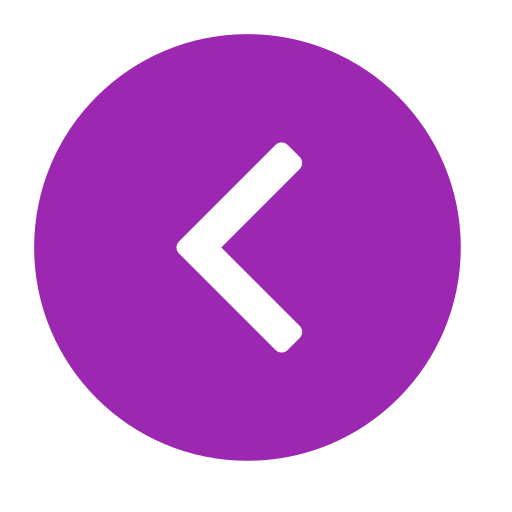
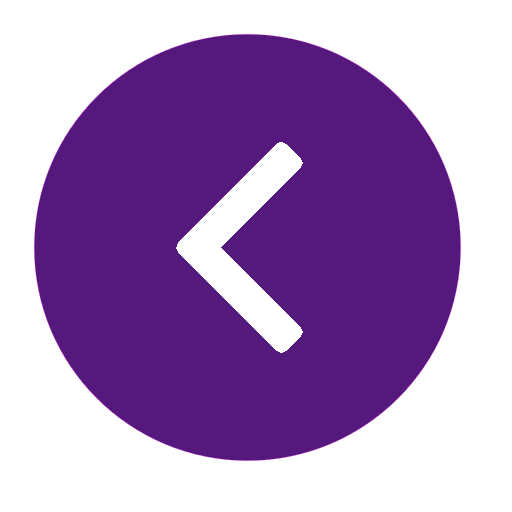
uhhh ze vsetko ui tak zatial iba pozadie a main
- main neni hotove este

diff --git a/src/App.tsx b/src/App.tsx
@@ -1,14 +1,8 @@
-import { useState, useEffect, memo, useRef } from 'react'
+import { useState, useEffect, useRef } from 'react'
 import './App.css'
 import './index.css'
-import LiquidChrome from './components/LiquidChrome';
-import SpotlightCard from './components/SpotlightCard';
 import ImageList from "./images.json"
 import ReCAPTCHA from "react-google-recaptcha";
-
-
-const CHROME_COLOR: [number, number, number] = [0.05, 0, 0.1];
-const MemoizedLiquidChrome = memo(LiquidChrome);
 
 interface LicenseData {
   status: string;
@@ -218,22 +212,22 @@ function App() {
 
   // REMOVED the extra { } around the ternary
   return license === true ? (
-    <div className='grid no-blur custom-spotlight-card col-span-2 md:col-span-1'> 
+    <div className='bg-[rgb(29,25,23)] p-[4%] grid no-blur  col-span-2 md:col-span-1'> 
       <h1 className='text-2xl lg:text-[45px] md:text-[35px] pb-2 '>Price</h1>
       <span className='text-xl md:text-2xl'>Thanks for purchasing our product! For downloading head to 'download' section above.</span>
     </div>
   ) : (
-    <div className='grid no-blur custom-spotlight-card col-span-2 md:col-span-1'>
+    <div className='bg-[rgb(29,25,23)] p-[4%] grid no-blur  col-span-2 md:col-span-1'>
       <h1 className='text-2xl lg:text-[45px] md:text-[35px] pb-2 '>Price</h1>
       <p className=''>
         Enjoy our LAUNCH sale, now for only 
         <span className='lg:text-[35px] md:text-[25px] text-2xl font-bold'> 6.99&nbsp;</span>
         <span className='lg:text-[30px] md:text-[22px] text-xl font-bold line-through'>14.99$</span> 
         for a lifetime license.* </p>
-      <button onClick={() => navigate('/buy')} className='text-black bg-purple-600 rounded-xl mt-4 mr-[20%] p-3 text-3xl '>
+      <button onClick={() => navigate('/buy')} className='text-black bg-[rgb(126,112,112)] rounded-xl mt-[4%] mr-[20%] p-3 text-3xl '>
         BUY NOW
       </button>
-      <img className='absolute place-self-end md:h-[40%] h-[50%]' src="zlava.png" alt="discount" />
+      <img className='absolute place-self-end md:h-[13%] h-[13%] mb-[-3%]' src="zlava.png" alt="discount" />
     </div>
   );
 }
@@ -262,28 +256,28 @@ function App() {
     <>
       <div className="all w-screen h-full">
         {/* --- HEADER --- */}
-        <div className='text-purple-600 font-bold h-min text-lg lg:text-[35px] md:text-[25px] p-[2vw] grid grid-cols-3 grid-rows-1 justify-center items-center'>
+        <div className='text-[rgb(126,112,112)] font-bold h-min text-lg lg:text-[35px] md:text-[25px] p-[2vw] grid grid-cols-3 grid-rows-1 justify-center items-center'>
 
           {/* RIGHT: Clock */}
-          <div id='hodiny' className='h-full pt-[1vw] text-start content-center flex md:p-[1vw] md:px-[3vw] p-3 order-3 justify-self-end h-full bg-black/40 drop-blur-[6px] border border-white/20 shadow-xl rounded-xl w-minback'>
+          <div id='hodiny' className='h-full pt-[1vw] text-start content-center flex md:p-[1vw] md:px-[3vw] p-3 order-3 justify-self-end h-full bg-[rgb(29,25,23)] border border-white/20 shadow-xl rounded-xl w-minback'>
             <Clock />
           </div>
 
           {/* LEFT: Login/Logout */}
           <div className="h-full order-1 justify-self-start">
             {isLoggedIn ? (
-              <h2 onClick={handleLogout} className="transition hover:text-purple-300 duration-300 md:p-[1vw] pt-[0.vw] md:px-[4vw] cursor-pointer content-center h-full w-min bg-black/40 backdrop-blur-[6px] border border-white/20 shadow-xl rounded-xl p-3">
+              <h2 onClick={handleLogout} className="transition hover:text-purple-300 duration-300 md:p-[1vw] pt-[0.vw] md:px-[4vw] cursor-pointer content-center h-full w-min bg-[rgb(29,25,23)] border border-white/20 shadow-xl rounded-xl p-3">
                 Logout
               </h2>
             ) : (
-              <h2 onClick={handleOpenLogin} className="transition  hover:text-purple-300 duration-300 md:p-[1vw] md:px-[4vw] cursor-pointer content-center h-full w-min bg-black/40 backdrop-blur-[6px] border border-white/20 shadow-xl rounded-xl p-3">
+              <h2 onClick={handleOpenLogin} className="transition  hover:text-purple-300 duration-300 md:p-[1vw] md:px-[4vw] cursor-pointer content-center h-full w-min bg-[rgb(29,25,23)] border border-white/20 shadow-xl rounded-xl p-3">
                 Login
               </h2>
             )}
           </div>
 
           {/* MIDDLE: Welcome Message + Nav Links (Optional) */}
-          <div className="h-full md:p-[0.5vw] md:px-[5vw] p-2 order-2  justify-self-center flex items-center bg-black/40 backdrop-blur-[6px] border border-white/20 shadow-xl rounded-xl">
+          <div className="h-full md:p-[0.5vw] md:px-[5vw] p-2 order-2  justify-self-center flex items-center bg-[rgb(29,25,23)] border border-white/20 shadow-xl rounded-xl">
             <div className='md:flex md:gap-4'>
               <h2 className='content-center '>
                 Welcome:</h2>
@@ -292,12 +286,7 @@ function App() {
           </div>
 
           {/* BACKGROUND */}
-          <div className='fixed -z-10 inset-0 transform-gpufixed top-0 left-0 w-full h-full -z-10 transform-gpu' style={{ width: '100vw', height: '100vh', position: 'fixed' }}>
-            <MemoizedLiquidChrome
-              baseColor={CHROME_COLOR}
-              speed={0.2}
-              amplitude={0.3}
-              interactive={false} />
+          <div className='bg-stone-900 fixed -z-10 inset-0 transform-gpufixed top-0 left-0 w-full h-full -z-10 transform-gpu' style={{ width: '100vw', height: '100vh', position: 'fixed' }}>
           </div>
         </div>
 
@@ -307,7 +296,7 @@ function App() {
         {currentPath === '/download' ? (
           // === DOWNLOAD PAGE ===
           <div className="p-[5vw]">
-            <SpotlightCard className="p-8 text-center no-blur" spotlightColor="rgba(108, 67, 255, 0.59)">
+            <div className="p-8 text-center no-blur">
               <h1 className="text-4xl font-bold text-purple-600 mb-3">Download Clients</h1>
 
               <div>
@@ -350,12 +339,12 @@ function App() {
                   </button>
                 </div>
               </div>
-            </SpotlightCard>
+            </div>
           </div>
 
         ) : currentPath === '/ref' ? (<>
           <div>
-            <SpotlightCard className='m-[2vw] no-blur'>
+            <div className='m-[2vw] no-blur'>
               <span className='text-purple-600'>
                 <h1 className='text-center text-2xl font-bold'>Refund policy</h1>
                 Due to the nature of digital software, we generally do not offer refunds once the file has been accessed. However, if you experience technical issues, please contact us within 14 days.
@@ -364,11 +353,11 @@ function App() {
                   Back to Home
                 </button>
               </div></span>
-              </SpotlightCard>
+              </div>
           </div>
         </>) : currentPath === '/buy' ? (<>
           <div>
-            <SpotlightCard className='grid font-bold m-[2vw] text-purple-600'>
+            <div className='grid font-bold m-[2vw] text-purple-600'>
               <div className='grid text-purple-600 mt-4 p-3 md:text-3xl text-xl'>
                 <h1 className=' text-2xl lg:text-[45px] md:text-[35px]'>Payment options</h1>
                 <span className=''>1. Buy via crypto: &nbsp;&nbsp;&nbsp;&nbsp;<button className='text-black bg-purple-600 rounded-xl mt-4 p-3 md:text-3xl text-xl' onClick={handleSellAppBuy}>Click here</button></span>
@@ -376,12 +365,12 @@ function App() {
                   <span>2. Pay with direct bank transfer. Time to process (0-2days)  (ADD <span className='font-black italic'>!SITE USERNAME!</span> INTO NOTE AND SET THE AMOUNT TO 6.99eur = 8.17usd)</span>
                   <span>&nbsp;&nbsp;IBAN: SK1411000000002971012476</span>
                   <span>&nbsp;&nbsp;Beneficiary name: Daniel Blasko</span></div>
-              </div>  </SpotlightCard>
+              </div>  </div>
           </div>
         </>) : currentPath === '/pp' ? (
           <>
             <div>
-              <SpotlightCard className='m-[2vw]'>
+              <div className='m-[2vw]'>
                 <span className='text-purple-500 no-blur'>
                   <h1 className='text-center text-2xl font-bold'>Privacy Policy Last Updated: January 2026</h1>
                   <br />
@@ -406,13 +395,13 @@ function App() {
                 <button onClick={() => navigate('/')} className="trasition-transform duration-300 hover:scale-110 text-black bg-purple-600 cursor-pointer text-lg md:text-xl rounded-xl p-4 px-[20vw]">
                   Back to Home
                 </button>
-              </div></SpotlightCard>
+              </div></div>
             </div>
           </>
         ) : currentPath === '/tos' ? (
           <>
             <div>
-              <SpotlightCard className='m-[2vw] no-blur'>
+              <div className='m-[2vw] no-blur'>
                 <span className='text-purple-600 '>
                   <h1 className='text-center text-2xl font-bold'>Terms of Service Last Updated: January 2026</h1>
 
@@ -434,13 +423,13 @@ function App() {
                 <button onClick={() => navigate('/')} className="trasition-transform duration-300 hover:scale-110 text-black bg-purple-600 cursor-pointer text-lg md:text-xl rounded-xl p-4 px-[20vw]">
                   Back to Home
                 </button>
-              </div></SpotlightCard>
+              </div></div>
             </div>
           </>
         ) : currentPath === '/clients' ? (
           // === ABOUT PAGE ===
           <div className="p-[2vw]">
-            <SpotlightCard className="p-8 text-4xl font-bold text-purple-600 no-blur" spotlightColor="rgba(108, 67, 255, 0.59)">
+            <div className="p-8 text-4xl font-bold text-purple-600 no-blur">
               <h1 className="mb-3 text-center mt-3">Included Clients</h1>
               <ol className='p-[7vw] list-decimal text-base md:text-2xl grid-cols-2 grid md:grid-cols-3 gap-y-[1vw] gap-x-[7vw]'>
                 {/*<li><a href="#[insert_name]">[name]</a></li>  PRIKLAD*/}
@@ -583,13 +572,13 @@ function App() {
               </div>
 
 
-            </SpotlightCard>
+            </div>
           </div>
 
         ) : currentPath === '/dashboard' ? (
           // === DAHBOARD ===
           <div className="p-[5vw]">
-            <SpotlightCard className="grid gird-rows-7 p-8 no-blur text-purple-600 text-xl" spotlightColor="rgba(108, 67, 255, 0.59)">
+            <div className="grid gird-rows-7 p-8 no-blur text-purple-600 text-xl">
               <h1 className="text-4xl font-bold mb-3">Dashboard</h1>
               <div className='flex'><p>Service status:</p> <DbCheck /></div>
               <div className='flex space-x-8'><p>Name: </p> <p className='font-bold'> {isLoggedIn ? userName : "Guest"}</p></div>
@@ -599,42 +588,42 @@ function App() {
               <button onClick={() => navigate('/')} className="trasition-transform duration-300 hover:scale-110 m-2 text-black bg-purple-600 cursor-pointer text-lg md:text-xl rounded-xl p-2 mr-[20vw] font-semibold ml-[20vw]">
                 Back to Home
               </button>
-            </SpotlightCard>
+            </div>
           </div>
 
         ) : (
           // === DEFAULT HOME PAGE ===
           <>
-            <div className="text-purple-600 md:p-5 md:mt-[0.3vw] mt-[-1vw] mr-[2vw] ml-[2vw] bg-black/40 backdrop-blur-[6px] border border-white/20 shadow-xl rounded-xl p-1.5 flex md:text-2xl text-lg gap-8 justify-around">
+            <div className="text-[rgb(126,112,112)] md:p-5 md:mt-[0.3vw] mt-[-1vw] mr-[2vw] ml-[2vw] bg-[rgb(29,25,23)] border border-white/20 shadow-xl rounded-xl p-1.5 flex md:text-2xl text-lg gap-8 justify-around">
               {/* NAVIGATION BAR INSIDE THE LINE */}
               <span onClick={() => { navigate(isLoggedIn ? '/dashboard' : "/"); loginAlert() }} className={`cursor-pointer font-bold transition duration-300 ${isLoggedIn ? 'text-purple-600 hover:text-purple-300' : 'text-gray-600 hover:text-gray-300'}`}>Dashboard </span>
               <span onClick={() => navigate('/download')} className="cursor-pointer font-bold hover:text-purple-300 transition duration-300">Download</span>
               <span onClick={() => navigate('/clients')} className="cursor-pointer font-bold hover:text-purple-300 transition duration-300">Clients</span>
             </div>
 
-            <div className="text-purple-600 font-bold md:gap-[vw] md:mt-[0.3vw] mt-[-1vw] text-xl lg:text-[25px] md:text-[18px] p-[2vw] custom-spotlight-card grid grid-cols-2 md:grid-cols-3 gap-[2vw]">
-              <SpotlightCard className="grid no-blur" spotlightColor="rgba(108, 67, 255, 0.59)">
+            <div className=" text-[rgb(126,112,112)] font-bold md:gap-[vw] md:mt-[0.3vw] mt-[-1vw] text-xl lg:text-[25px] md:text-[18px] p-[2vw]  grid grid-cols-2 md:grid-cols-3 gap-[2vw]">
+              <div className="bg-[rgb(29,25,23)] p-[4%] border border-white/20 shadow-xl rounded-xl grid" >
                 <h1 className='text-2xl lg:text-[45px] md:text-[35px] pb-2'>Features</h1>
                 <p>Be on top of the leaderboard.</p>
                 <p>Enjoy clients for every type of gameplay.</p>
                 <p>Right now we have 25 fully functional paid clients.</p>
-              </SpotlightCard>
-              <SpotlightCard className="no-blur custom-spotlight-card grid " spotlightColor="rgba(108, 67, 255, 0.59)">
+              </div>
+              <div className="bg-[rgb(29,25,23)] p-[4%] no-blur  grid border border-white/20 shadow-xl rounded-xl" >
                 <h1 className='text-2xl lg:text-[45px] md:text-[35px] pb-2'>About us</h1>
                 <p>We offer wide variety of clients for very affordable price.</p>
                 <p>You will receive acces to our products right after purchase.</p>
-              </SpotlightCard>
-              <SpotlightCard className="grid no-blur custom-spotlight-card col-span-2 md:col-span-1" spotlightColor="rgba(108, 67, 255, 0.59)">
+              </div>
+              <div className="p-[3%] border border-white/20 shadow-xl rounded-xl grid no-blur  col-span-2 md:col-span-1 " >
 
                 <CheckLic loggedIn={isLoggedIn}></CheckLic>
-              </SpotlightCard>
+              </div>
             </div>
 
             <div className="p-[2vw]">
-              <SpotlightCard className="no-blur md:h-[40vw] h-[50vw] text-purple-600 font-bold md:gap-[1vw] md:mt-[-2vw] mt-[-1vw] text-xl lg:text-[25px] md:text-[18px] custom-spotlight-card" spotlightColor="rgba(108, 67, 255, 0.59)">
+              <div className="bg-[rgb(29,25,23)] p-[3%] border border-white/20 shadow-xl rounded-xl no-blur md:h-[40vw] h-[50vw] text-purple-600 font-bold md:gap-[1vw] md:mt-[-2vw] mt-[-1vw] text-xl lg:text-[25px] md:text-[18px] ">
                 <div className='h-full'><GetImage /></div>
 
-              </SpotlightCard>
+              </div>
             </div>
           </>
         )}
@@ -650,11 +639,11 @@ function App() {
             : <Register onClose={closeModals} />
         )}
 
-        <footer className='text-purple-600 text-2xl'> <SpotlightCard className='m-[2vw] grid gap-2 no-blur'> 
+        <footer className='text-[rgb(126,112,112)] text-2xl'> <div className='m-[2vw] grid gap-2 no-blur'> 
           <p>© 2026 Pokus Utility. All rights reserved.</p> <p onClick={() => navigate('/tos')} className='h-min md:w-[20vw] mt-[-10px] cursor-pointer font-bold hover:text-purple-300 transition duration-300'>Terms of Service</p>
           <p onClick={() => navigate('/pp')} className='md:w-[20vw] mt-[-10px] cursor-pointer font-bold hover:text-purple-300 transition duration-300'>Privacy Policy</p>
           <p onClick={() => navigate('/ref')} className='md:w-[20vw] mt-[-10px] cursor-pointer font-bold hover:text-purple-300 transition duration-300'>Refunds</p>
-        </SpotlightCard></footer>
+        </div></footer>
       </div>
     </>
   )
@@ -801,7 +790,7 @@ function Register({ onClose }: { onClose: () => void }) {
 
   return (
     <div className='fixed place-self-center inset-0 z-50'>
-      <SpotlightCard className="custom-spotlight-card text-purple-600 w-[400px] font-bold text-2xl lg:text-[35px] md:text-[25px] flex flex-col gap-4 p-8 justify-center" spotlightColor="rgba(108, 67, 255, 0.59)">
+      <div className=" text-purple-600 w-[400px] font-bold text-2xl lg:text-[35px] md:text-[25px] flex flex-col gap-4 p-8 justify-center">
         <div className='flex justify-between items-center w-full'>
           <h1 className='text-center flex-grow'>Register</h1>
           <img className='h-8 w-8 cursor-pointer' src="x.png" alt="close" onClick={onClose} />
@@ -828,8 +817,8 @@ function Register({ onClose }: { onClose: () => void }) {
           />
         </div>
 
-        <input className='hover:cursor-pointer p-3 border-2 border-purple-600 rounded-lg bg-purple-200 text-purple-900 text-xl' type="button" value="Submit" onClick={handleSubmit} />
-      </SpotlightCard>
+        <input className='hover:cursor-pointer p-3 border-2 border-purple-600 rounded-lg bg-purple-200 text-[rgb(126,112,112)] text-xl' type="button" value="Submit" onClick={handleSubmit} />
+      </div>
     </div>
   );
 }
@@ -884,7 +873,7 @@ function Login({ onClose, onSwitch, setAuth }: { onClose: () => void, onSwitch: 
 
   return (
     <div className='fixed place-self-center inset-0 z-50 flex items-center justify-center'>
-      <SpotlightCard className="custom-spotlight-card text-purple-600 w-[90vw] md:w-[40vw] font-bold text-2xl lg:text-[35px] md:text-[25px] flex flex-col gap-3 justify-center p-8" spotlightColor="rgba(108, 67, 255, 0.59)">
+      <div className=" text-purple-600 w-[90vw] md:w-[40vw] font-bold text-2xl lg:text-[35px] md:text-[25px] flex flex-col gap-3 justify-center p-8">
         <div className='flex justify-between items-center w-full'>
           <h1 className='mx-auto'>Login</h1>
           <img className='h-8 w-8 cursor-pointer' src="x.png" alt="close" onClick={onClose} />
@@ -906,7 +895,7 @@ function Login({ onClose, onSwitch, setAuth }: { onClose: () => void, onSwitch: 
 
         <input className='hover:cursor-pointer border-1 md:border-2 border-purple-600 rounded-lg bg-purple-200 py-2' type="button" value="Submit" onClick={handleLogin} />
         <p className='text-base md:text-xl font-normal text-center'>No account? <span className='underline cursor-pointer' onClick={onSwitch}>Register</span></p>
-      </SpotlightCard>
+      </div>
     </div>
   );
 }
@@ -936,7 +925,7 @@ function GetImage() {
   return (<div className=' gap-[2vw] grid grid-cols-[1fr_8fr_1fr] auto-rows-fr h-full'>
     <img onClick={nextImage} className='transition-transform duration-300
                     hover:scale-110 cursor-pointer self-center' src="/arrow_left.png" alt="sdadsa" />
-    <img className="rounded-xl justify-self-center max-w-full max-h-full h-full" src={ImagesList[imgCount]} alt="image" />
+    <img className="opacity-50  rounded-xl justify-self-center max-w-full max-h-full h-full" src={ImagesList[imgCount]} alt="image" />
     <img onClick={prevImage} className="duration-300
                     hover:scale-110 cursor-pointer self-center" src="/arrow_right.png" alt="dsadsa" />
   </div>)